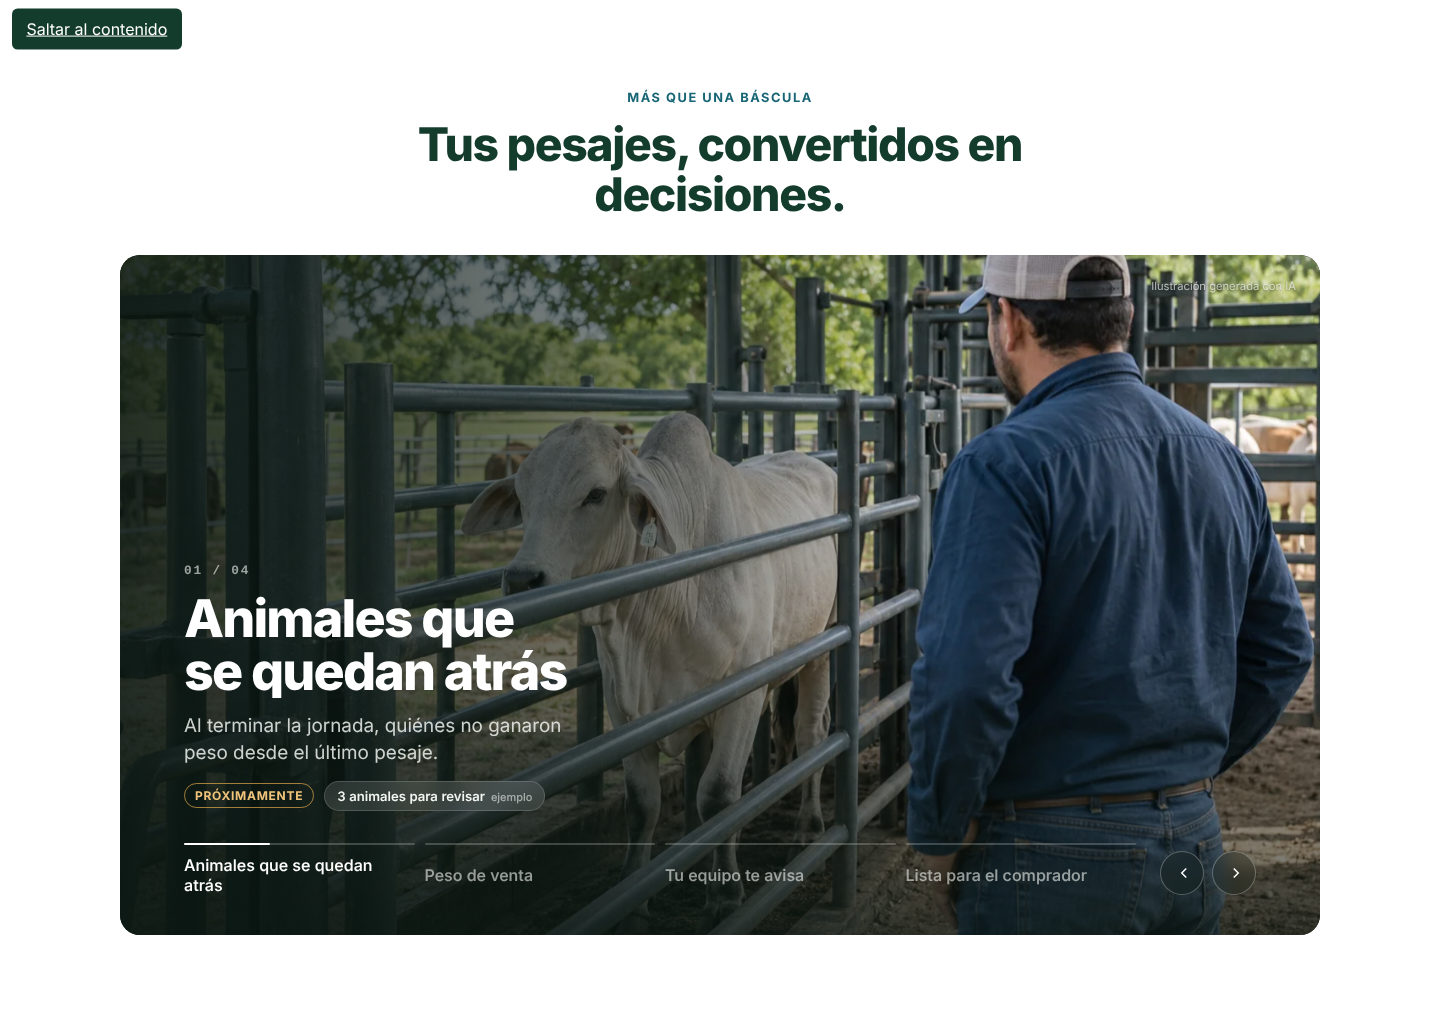
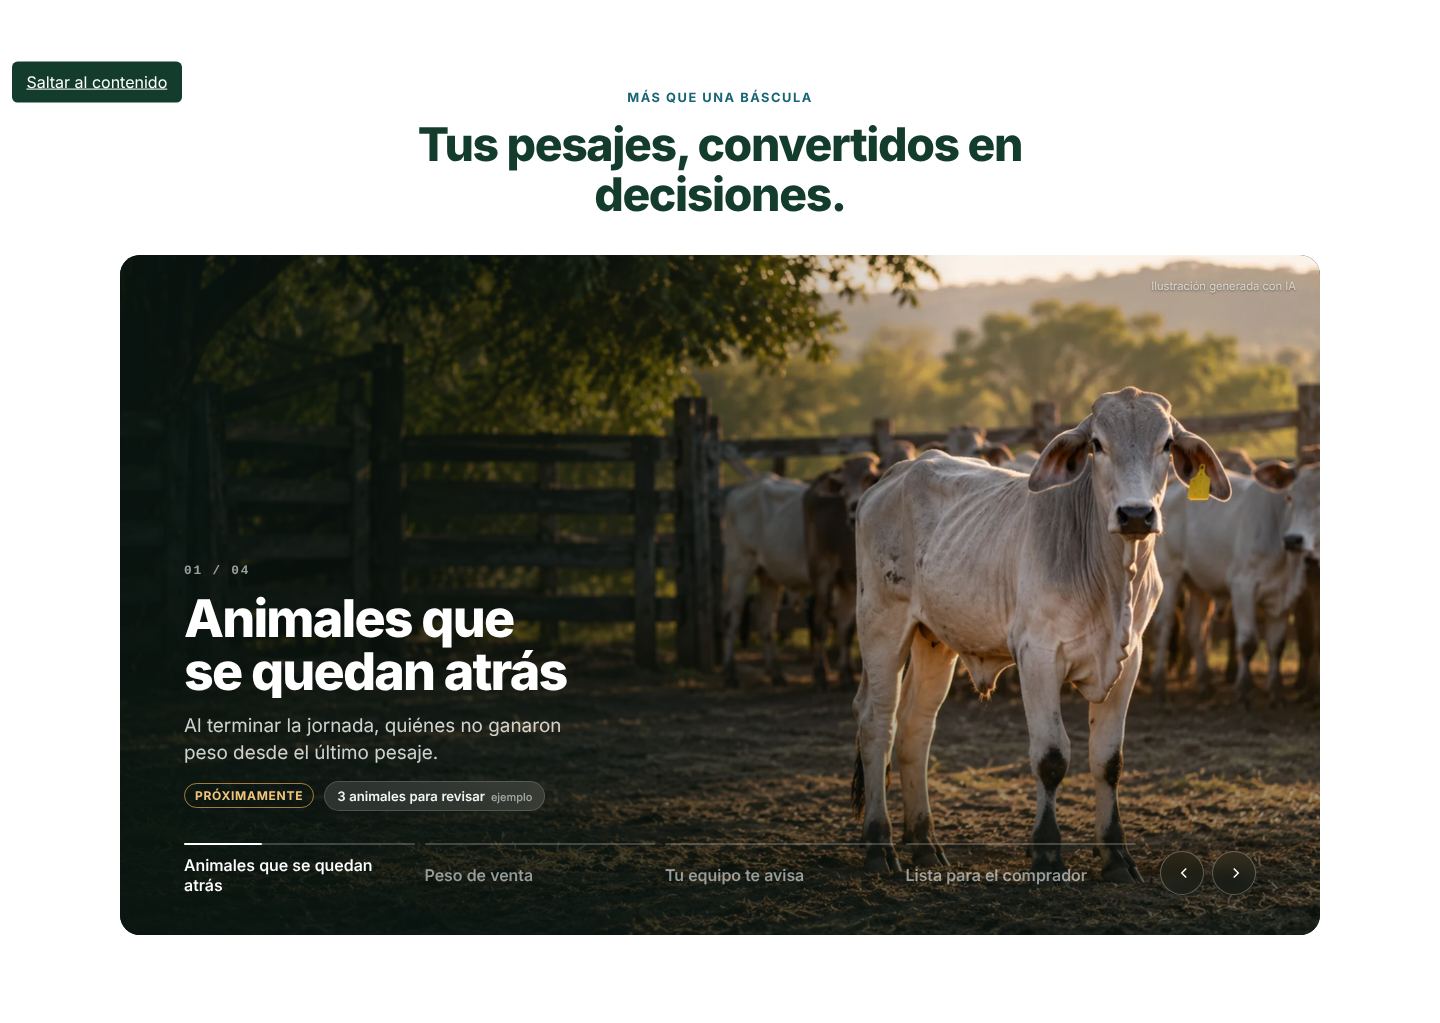
Web: conectar las imágenes nuevas del carrusel
Índice de imágenes y CREDITOS con las cuatro ilustraciones mqb-*-ia, y
encuadre a la derecha en celular, donde van los sujetos. Capturas de las
cuatro láminas a 1440 y 390 px.

Claude-Session: https://claude.ai/code/session_015jMAz3zDxQR5a6C18aYDFS
(cherry picked from commit c416cbb1f796bd60431c66c36c64b54073c65bf5)

diff --git a/apps/web/src/img/index.js b/apps/web/src/img/index.js
@@ -13,6 +13,46 @@
  */
 
 export const imagenes = {
+  "mqb-atras-ia": {
+    src: "/img/mqb-atras-ia.webp",
+    width: 1920,
+    height: 1080,
+    alt: "Un novillo flaco de raza cebú con arete amarillo, apartado del resto del lote en el corral",
+    autor: "Generada con IA para Fierro",
+    licencia: "Recurso generado; no es fotografía documental",
+    fuente: "/img/CREDITOS.md",
+    requiereAtribucion: false,
+  },
+  "mqb-venta-ia": {
+    src: "/img/mqb-venta-ia.webp",
+    width: 1920,
+    height: 1080,
+    alt: "Lote de novillos de engorda en un corral con la rampa de embarque al fondo, al amanecer",
+    autor: "Generada con IA para Fierro",
+    licencia: "Recurso generado; no es fotografía documental",
+    fuente: "/img/CREDITOS.md",
+    requiereAtribucion: false,
+  },
+  "mqb-equipo-ia": {
+    src: "/img/mqb-equipo-ia.webp",
+    width: 1920,
+    height: 1080,
+    alt: "Un ganadero mayor revisa una tablet junto a la manga, al atardecer, con la caja de la estación en un poste",
+    autor: "Generada con IA para Fierro",
+    licencia: "Recurso generado; no es fotografía documental",
+    fuente: "/img/CREDITOS.md",
+    requiereAtribucion: false,
+  },
+  "mqb-comprador-ia": {
+    src: "/img/mqb-comprador-ia.webp",
+    width: 1920,
+    height: 1080,
+    alt: "Dos ganaderos recargados en la cerca del corral miran el lote; uno sostiene un celular",
+    autor: "Generada con IA para Fierro",
+    licencia: "Recurso generado; no es fotografía documental",
+    fuente: "/img/CREDITOS.md",
+    requiereAtribucion: false,
+  },
   "home-corral-v2-ia": {
     src: "/img/home-corral-v2-ia.webp",
     width: 1448,

diff --git a/apps/web/src/MasQueBascula.jsx b/apps/web/src/MasQueBascula.jsx
@@ -17,7 +17,7 @@ const IDEAS = [
     texto: "Al terminar la jornada, quiénes no ganaron peso desde el último pesaje.",
     disponible: false,
     dato: "3 animales para revisar",
-    foto: "home-corral-ia",
+    foto: "mqb-atras-ia",
   },
   {
     id: "venta",
@@ -25,7 +25,7 @@ const IDEAS = [
     texto: "Tú pones la meta. Fierro cuenta cuántos ya llegaron y cuántos van cerca.",
     disponible: false,
     dato: "Meta 480 kg · 6 ya en peso",
-    foto: "home-paisaje-ia",
+    foto: "mqb-venta-ia",
   },
   {
     id: "equipo",
@@ -33,7 +33,7 @@ const IDEAS = [
     texto: "El último reporte de cada estación y los pesajes que tiene por enviar.",
     disponible: true,
     dato: "Manga 1 · reportó hace 2 min",
-    foto: "home-consulta-ia",
+    foto: "mqb-equipo-ia",
   },
   {
     id: "comprador",
@@ -41,7 +41,7 @@ const IDEAS = [
     texto: "El lote pesado, arete por arete, listo para compartir.",
     disponible: false,
     dato: "Lote 3 · 40 animales · 17,480 kg",
-    foto: "home-corral-v2-ia",
+    foto: "mqb-comprador-ia",
   },
 ];
 

diff --git a/apps/web/src/mas-que-bascula.css b/apps/web/src/mas-que-bascula.css
@@ -264,6 +264,8 @@
   .mqb-cabeza { padding-inline: 20px; margin-bottom: 1.75rem; }
 
   /* A sangre y una pantalla de alto, menos la barra del navegador. */
+  /* Los sujetos van en la mitad derecha de cada imagen. */
+  .mqb-slide img { object-position: 68% center; }
   .mqb-carrusel { --mqb-lado: 22px; height: min(max(560px, calc(100svh - 72px)), 760px); border-radius: 0; }
   .mqb-slide::after { background: linear-gradient(0deg, rgba(10, 22, 17, 0.94) 0%, rgba(10, 22, 17, 0.7) 42%, rgba(10, 22, 17, 0) 72%); }
   .mqb-texto { right: var(--mqb-lado); bottom: 96px; gap: 12px; }

diff --git a/apps/web/public/img/CREDITOS.md b/apps/web/public/img/CREDITOS.md
@@ -1,5 +1,19 @@
 # Créditos de imágenes
 
+## Carrusel "Más que una báscula" (2026-10-27)
+
+Cuatro ilustraciones generadas con Codex CLI (image_gen) para el carrusel de la
+propuesta K. Salen en 1672 × 941 y se reescalaron a WebP 1920 × 1080, calidad 80.
+Prompts finales en [carrusel-prompts.md](../../../../docs/design/home/carrusel-prompts.md).
+El carrusel muestra "Ilustración generada con IA" sobre la imagen.
+
+| Archivo | Origen | Dimensiones | Uso |
+|---|---|---|---|
+| `mqb-atras-ia.webp` | Codex image_gen, generación para Fierro | 1920 × 1080 | Animales que se quedan atrás |
+| `mqb-venta-ia.webp` | Codex image_gen, generación para Fierro | 1920 × 1080 | Peso de venta |
+| `mqb-equipo-ia.webp` | Codex image_gen, generación para Fierro | 1920 × 1080 | Tu equipo te avisa |
+| `mqb-comprador-ia.webp` | Codex image_gen, generación para Fierro | 1920 × 1080 | Lista para el comprador |
+
 ## Recursos generados para el nuevo home (2026-09-23)
 
 Revisión de la lámina 02: `home-corral-v2-ia.webp`, 1448 × 1086, generado con
